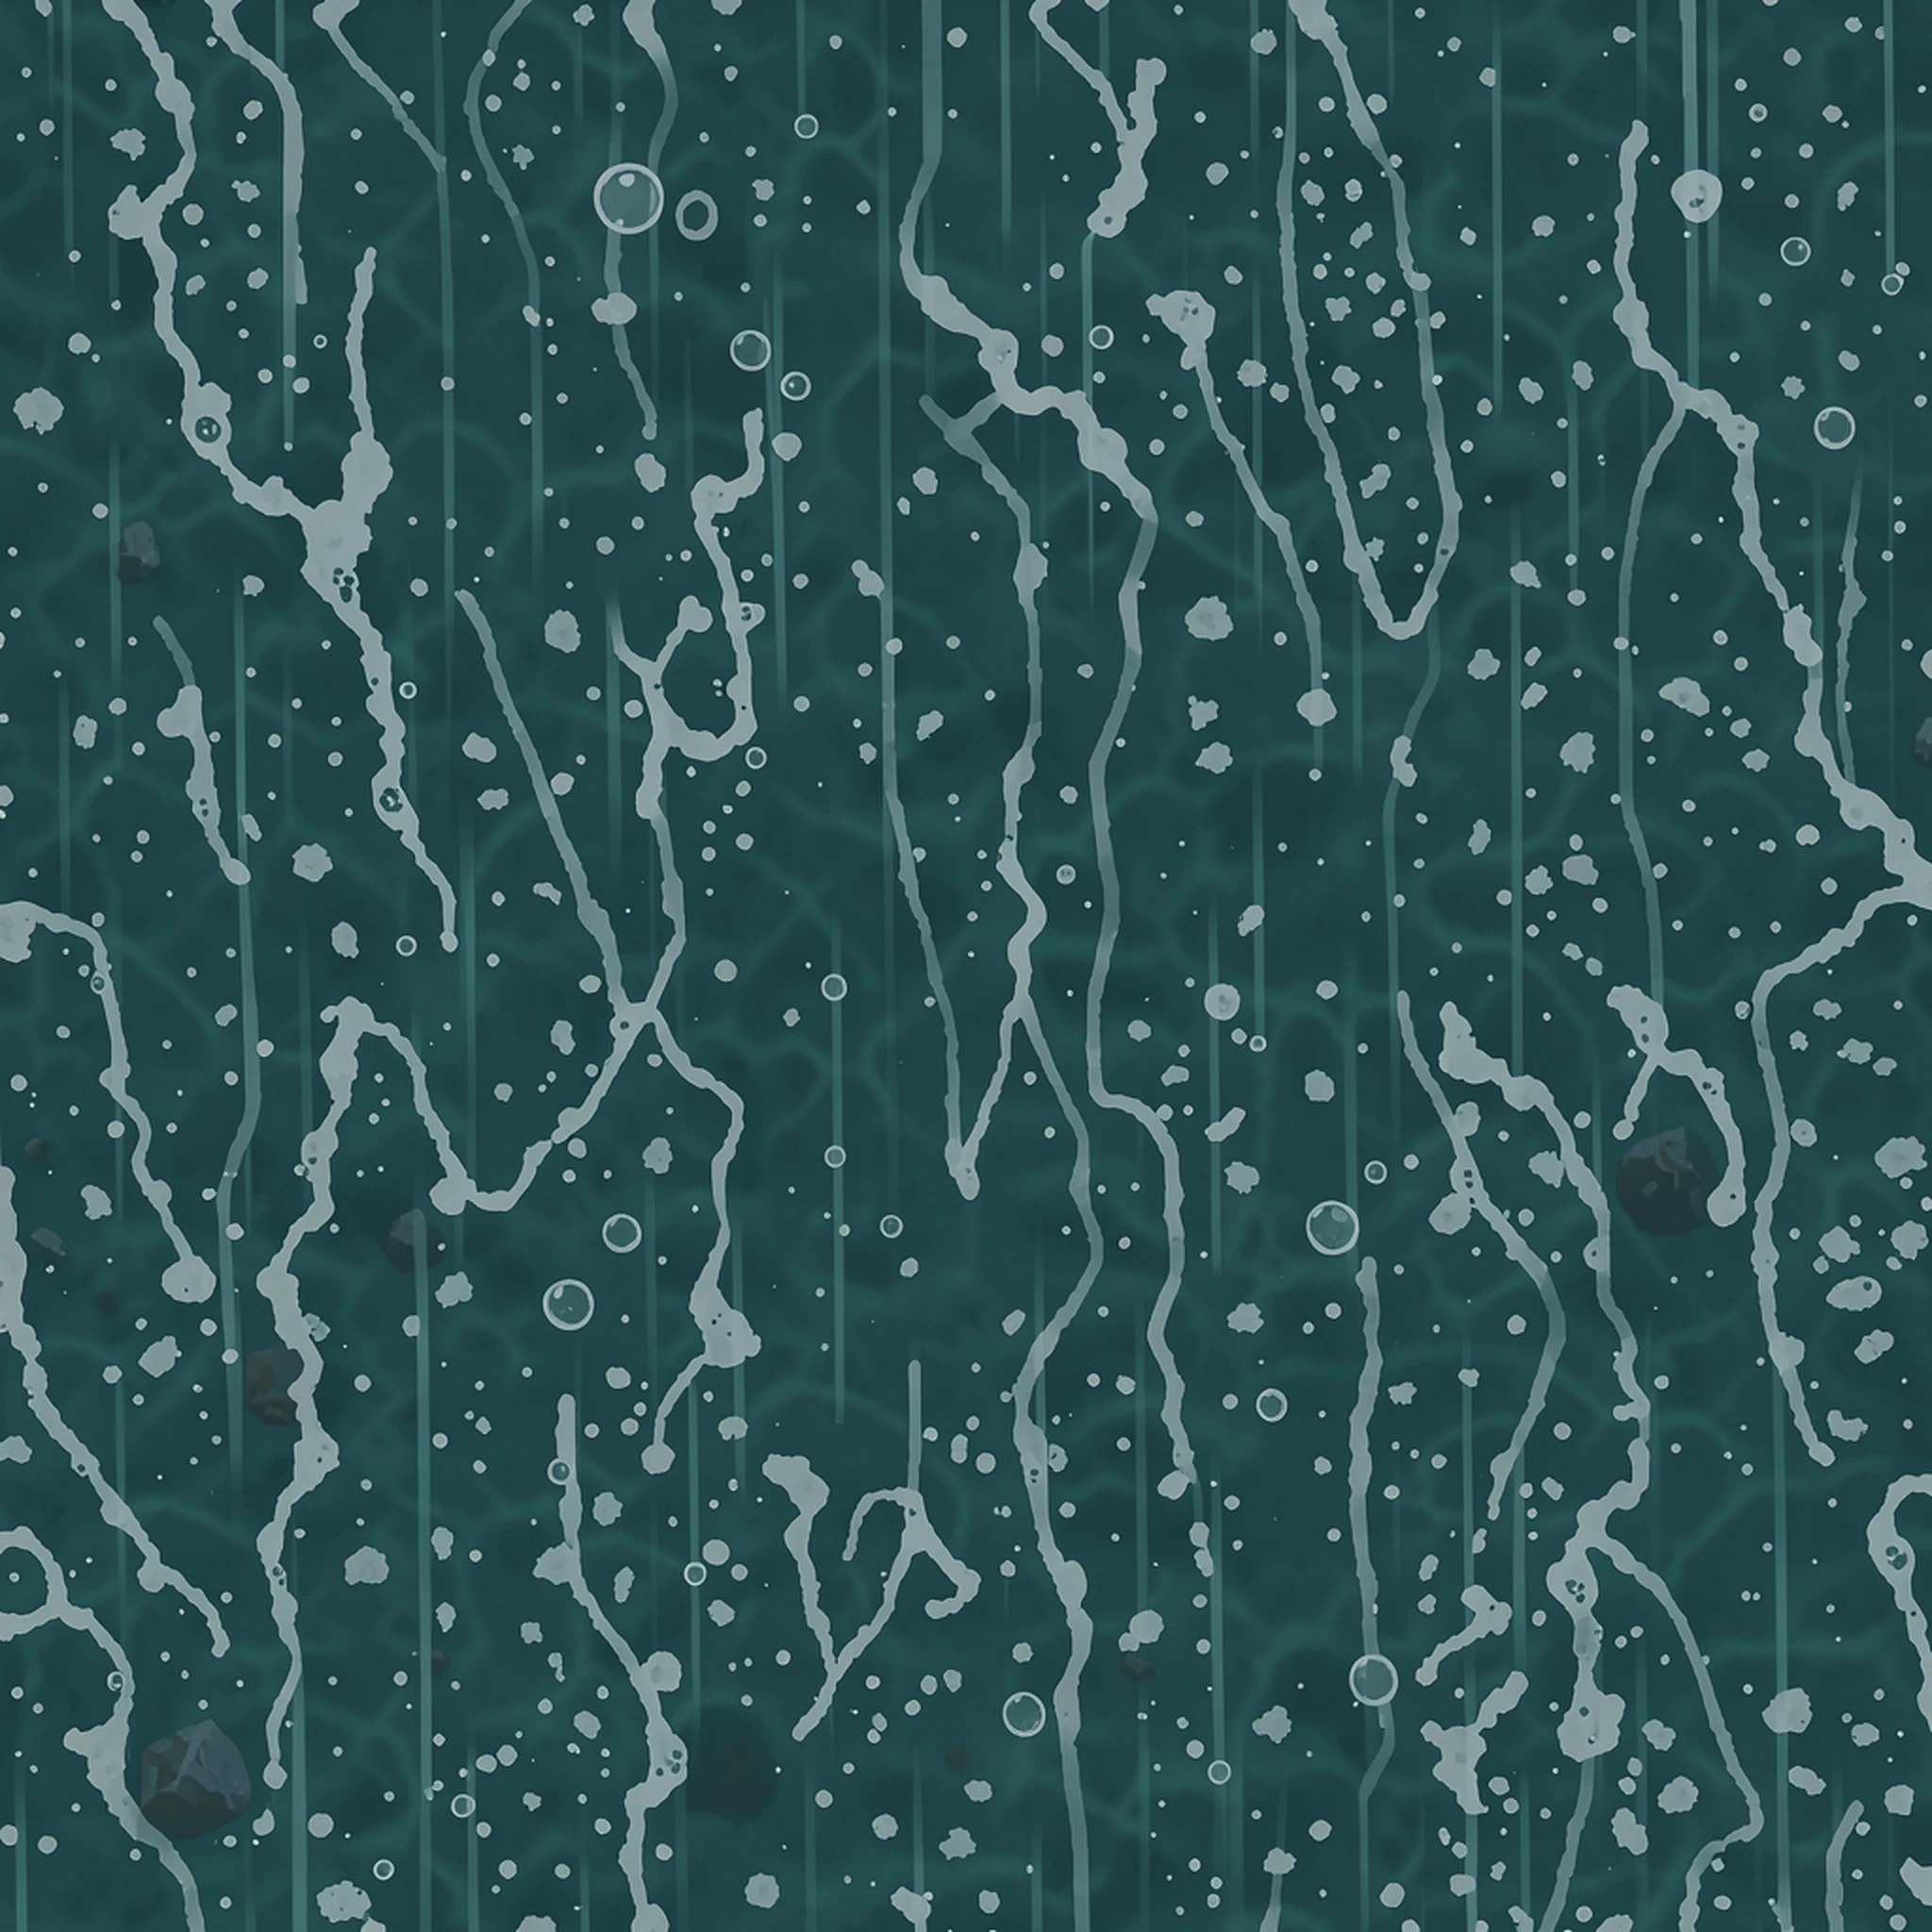
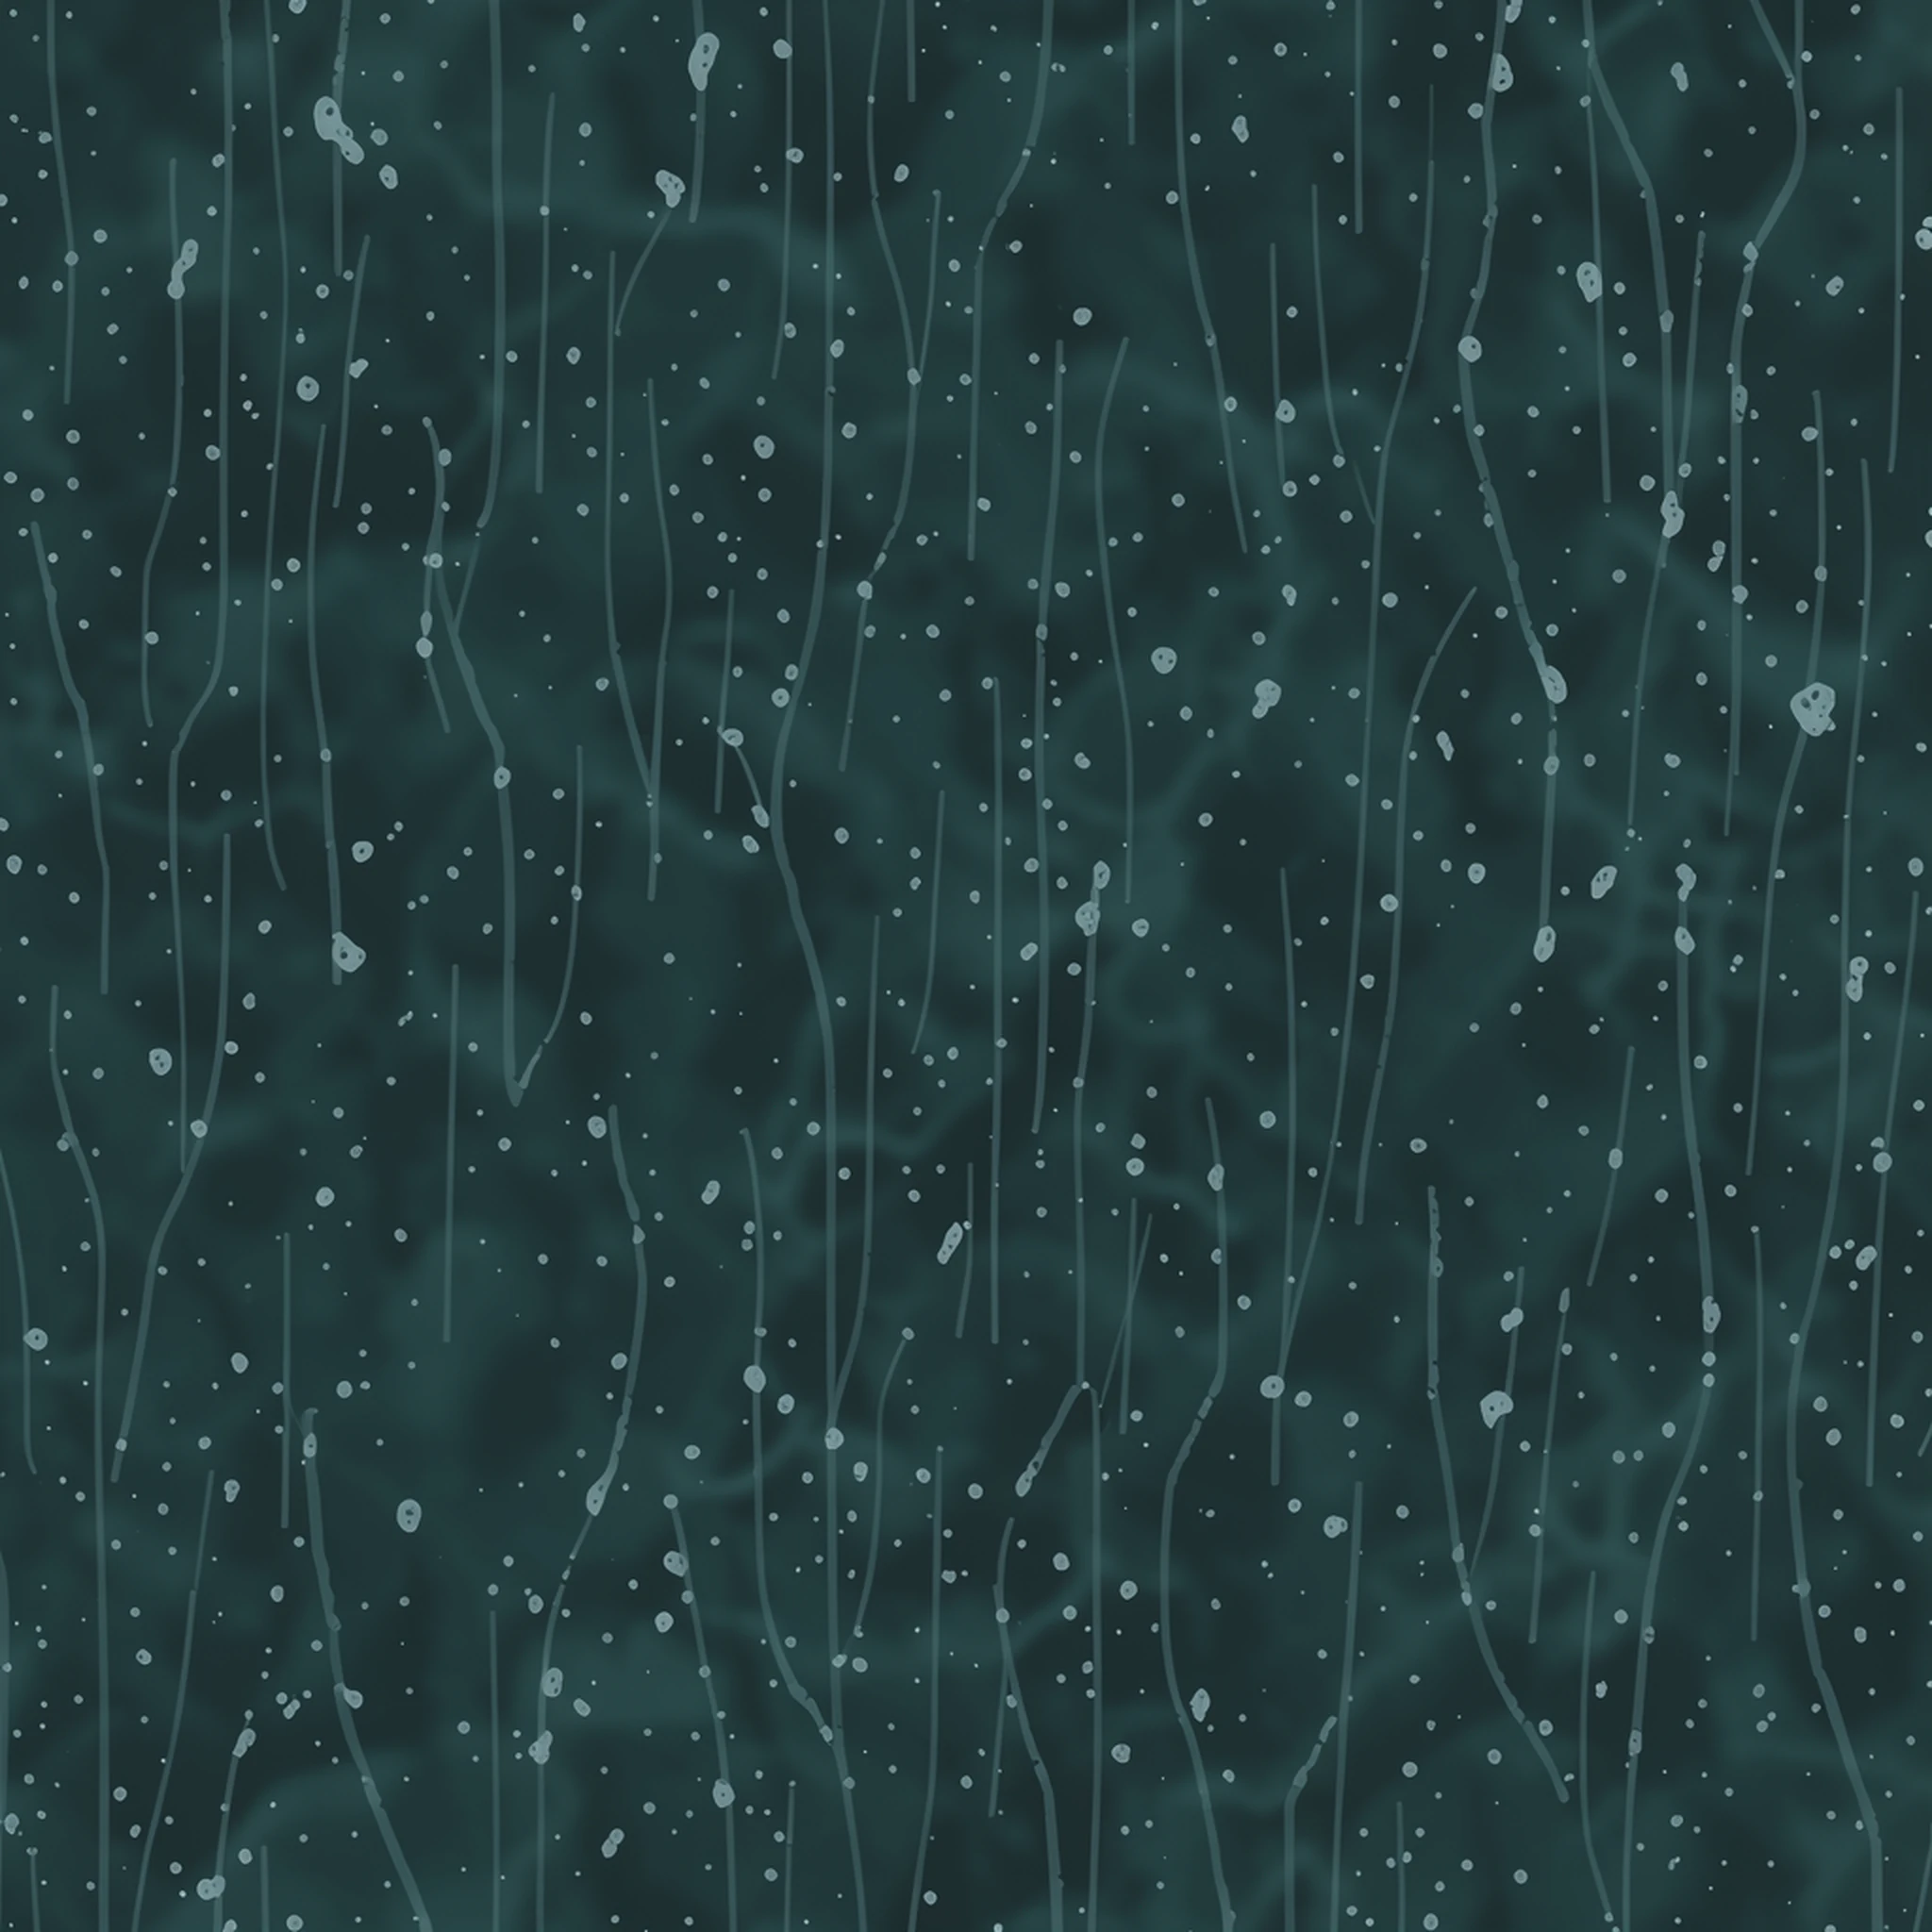
Hillshade relief on painted ground, cliff-face walls, calmer water
The painted terrain now shows its elevation: a hillshade pass samples the
height field on a one-tile lattice, bilinearly interpolates gradients per
pixel (sampling per-corner steps directly aliased into diamond-lattice
chains), and bakes lambert relief into the composite — away-facing slopes
darken, sun-facing slopes get a warm lift, light from the northwest to
match the sprite sun. Steep elevation edges (drop >= 2) now fill their
wall quads with an img2img-enriched slate cliff painting, window-hashed
per tile so faces don't repeat, with the depth gradient kept on top.

The stream-water painting is regenerated calmer (dark teal, subtle current
lines, sparse flecks) — the old one read as bath suds. Grid API floor is
strength 0.55; 0.5 is rejected.

Claude-Session: https://claude.ai/code/session_016WHJu5xCseYgrXDGJkfMzC

diff --git a/client/terrain-ground-patches.js b/client/terrain-ground-patches.js
@@ -4,6 +4,7 @@ import {
   visualBiomeWeightsAt,
 } from "./terrain-visual-biomes.js";
 import { roadPressuresAt, streamCenterAt } from "./terrain-biome.js";
+import { vertexHeight } from "./terrain-height.js";
 import { projectTerrainTile } from "./terrain-geometry.js";
 import { TERRAIN_MATERIALS, terrainTileAt } from "./terrain.js";
 import { PROJECTION } from "./projection.js";
@@ -185,6 +186,7 @@ function compositePatchForTile(tile, terrain, groundPatches) {
   }
 
   drawEcotoneBand(composite, maskContext, maskCanvas, superX, superY, terrain, groundPatches);
+  drawReliefShade(composite, maskContext, maskCanvas, superX, superY, terrain);
   drawRoadWear(composite, maskContext, maskCanvas, superX, superY, terrain, groundPatches);
   drawWaterBodies(composite, maskContext, maskCanvas, superX, superY, terrain, groundPatches);
 
@@ -293,6 +295,90 @@ function drawBombedPatchImage(ctx, image, superX, superY, seed) {
       ctx.drawImage(scratch.canvas, centerPxX - stampSizePx / 2, centerPxY - stampSizePx / 2);
     }
   }
+}
+
+// Hillshade: the painted ground is geometrically displaced by elevation but
+// was flat-lit, so hills read only at their step edges. This pass samples
+// the height field per pixel and bakes lambert-style relief into the
+// composite — slopes facing away from the light darken, sun-facing slopes
+// get a gentle warm lift. Light from the northwest, matching the sprite sun.
+const RELIEF_LIGHT_X = -0.62;
+const RELIEF_LIGHT_Y = -0.62;
+const RELIEF_STRENGTH = 0.9;
+
+function drawReliefShade(composite, maskContext, maskCanvas, superX, superY, terrain) {
+  const { cols, rows, safeRadiusTiles, profile } = terrain;
+  const size = MASK_SIZE;
+  // heights sampled on a one-tile lattice and gradients bilinearly
+  // interpolated per pixel: shading follows the broad hill forms instead of
+  // aliasing on per-tile corner steps (which drew diamond-lattice chains)
+  const latticeSize = CANVAS_TILES + 3;
+  const heights = new Float32Array(latticeSize * latticeSize);
+  for (let ly = 0; ly < latticeSize; ly += 1) {
+    const mapY = superY * PATCH_TILES + ly - MARGIN_TILES - 1;
+    for (let lx = 0; lx < latticeSize; lx += 1) {
+      const mapX = superX * PATCH_TILES + lx - MARGIN_TILES - 1;
+      heights[ly * latticeSize + lx] = vertexHeight(mapX, mapY, cols, rows, safeRadiusTiles, profile);
+    }
+  }
+  const h = (lx, ly) =>
+    heights[Math.min(latticeSize - 1, Math.max(0, ly)) * latticeSize + Math.min(latticeSize - 1, Math.max(0, lx))];
+  // per-lattice-point centered gradients (in height units per tile)
+  const gxs = new Float32Array(latticeSize * latticeSize);
+  const gys = new Float32Array(latticeSize * latticeSize);
+  for (let ly = 0; ly < latticeSize; ly += 1) {
+    for (let lx = 0; lx < latticeSize; lx += 1) {
+      gxs[ly * latticeSize + lx] = (h(lx + 1, ly) - h(lx - 1, ly)) / 2;
+      gys[ly * latticeSize + lx] = (h(lx, ly + 1) - h(lx, ly - 1)) / 2;
+    }
+  }
+
+  const dark = new Float32Array(size * size);
+  const light = new Float32Array(size * size);
+  let hasRelief = false;
+  const pxPerTile = size / CANVAS_TILES;
+  for (let y = 0; y < size; y += 1) {
+    const fy = (y + 0.5) / pxPerTile + 1; // +1 for the extra lattice ring
+    const ly = Math.floor(fy);
+    const ty = fy - ly;
+    for (let x = 0; x < size; x += 1) {
+      const fx = (x + 0.5) / pxPerTile + 1;
+      const lx = Math.floor(fx);
+      const tx = fx - lx;
+      const i00 = ly * latticeSize + lx;
+      const gx =
+        (gxs[i00] * (1 - tx) + gxs[i00 + 1] * tx) * (1 - ty) +
+        (gxs[i00 + latticeSize] * (1 - tx) + gxs[i00 + latticeSize + 1] * tx) * ty;
+      const gy =
+        (gys[i00] * (1 - tx) + gys[i00 + 1] * tx) * (1 - ty) +
+        (gys[i00 + latticeSize] * (1 - tx) + gys[i00 + latticeSize + 1] * tx) * ty;
+      // signed slope-into-light: negative = facing the light
+      const facing = (gx * RELIEF_LIGHT_X + gy * RELIEF_LIGHT_Y) * RELIEF_STRENGTH;
+      const i = y * size + x;
+      if (facing > 0.03) {
+        dark[i] = Math.min(0.38, facing * 0.4);
+        hasRelief = true;
+      } else if (facing < -0.03) {
+        light[i] = Math.min(0.18, -facing * 0.22);
+        hasRelief = true;
+      }
+    }
+  }
+  if (!hasRelief) return;
+
+  writeFieldMask(maskContext, dark);
+  composite.save();
+  composite.globalCompositeOperation = "multiply";
+  composite.fillStyle = "rgb(52, 58, 54)";
+  applyMaskedFill(composite, maskCanvas);
+  composite.restore();
+
+  writeFieldMask(maskContext, light);
+  composite.save();
+  composite.globalCompositeOperation = "soft-light";
+  composite.fillStyle = "rgb(255, 244, 214)";
+  applyMaskedFill(composite, maskCanvas);
+  composite.restore();
 }
 
 // The biome border wears an enriched ecotone painting: scrub, stones and

diff --git a/client/terrain-draw-surface.js b/client/terrain-draw-surface.js
@@ -7,7 +7,7 @@ export function terrainUnderpaintMaterial(tile) {
   return tile.material;
 }
 
-export function drawTerrainSideWalls(ctx, tile, corners, palette) {
+export function drawTerrainSideWalls(ctx, tile, corners, palette, cliffImage = null) {
   // water included: walls cover the screen-space gap below displaced edges
   // for every material — skipping them leaves black notches at pond steps
   if (!Array.isArray(tile.elevationEdges) || tile.elevationEdges.length === 0) return;
@@ -20,6 +20,38 @@ export function drawTerrainSideWalls(ctx, tile, corners, palette) {
     const dropPx = Math.max(2, edge.drop * PROJECTION.zPx);
     const lowerFrom = { x: from.x, y: from.y + dropPx };
     const lowerTo = { x: to.x, y: to.y + dropPx };
+
+    const wallPath = () => {
+      ctx.beginPath();
+      ctx.moveTo(from.x, from.y);
+      ctx.lineTo(to.x, to.y);
+      ctx.lineTo(lowerTo.x, lowerTo.y);
+      ctx.lineTo(lowerFrom.x, lowerFrom.y);
+      ctx.closePath();
+    };
+
+    if (cliffImage) {
+      // real rock face: the enriched cliff painting fills the wall quad;
+      // the source window hashes from tile coords so neighbouring walls
+      // don't repeat, and the depth gradient below keeps the shading
+      ctx.save();
+      wallPath();
+      ctx.clip();
+      const windowSize = 280;
+      const su = (((tile.x * 53 + tile.y * 97) % 7) / 7) * (cliffImage.width - windowSize);
+      const sv = (((tile.x * 31 + tile.y * 61) % 5) / 5) * (cliffImage.height - windowSize);
+      ctx.imageSmoothingEnabled = true;
+      const left = Math.min(from.x, to.x, lowerFrom.x, lowerTo.x);
+      const top = Math.min(from.y, to.y);
+      ctx.drawImage(
+        cliffImage,
+        su, sv, windowSize, windowSize * 0.6,
+        left - 2, top - 2,
+        Math.abs(to.x - from.x) + 4, dropPx + Math.abs(to.y - from.y) + 4,
+      );
+      ctx.restore();
+    }
+
     const gradient = ctx.createLinearGradient(
       (from.x + to.x) / 2,
       (from.y + to.y) / 2,
@@ -27,15 +59,9 @@ export function drawTerrainSideWalls(ctx, tile, corners, palette) {
       (lowerFrom.y + lowerTo.y) / 2,
     );
     const shadowAlpha = Math.min(0.22, 0.06 + edge.drop * 0.035);
-    gradient.addColorStop(0, tintWithAlpha(palette.dark, shadowAlpha * 0.72));
-    gradient.addColorStop(1, `rgba(8, 11, 10, ${shadowAlpha})`);
-
-    ctx.beginPath();
-    ctx.moveTo(from.x, from.y);
-    ctx.lineTo(to.x, to.y);
-    ctx.lineTo(lowerTo.x, lowerTo.y);
-    ctx.lineTo(lowerFrom.x, lowerFrom.y);
-    ctx.closePath();
+    gradient.addColorStop(0, tintWithAlpha(palette.dark, shadowAlpha * (cliffImage ? 0.45 : 0.72)));
+    gradient.addColorStop(1, `rgba(8, 11, 10, ${shadowAlpha * (cliffImage ? 1.5 : 1)})`);
+    wallPath();
     ctx.fillStyle = gradient;
     ctx.fill();
 

diff --git a/client/terrain-assets.js b/client/terrain-assets.js
@@ -2,7 +2,7 @@ import { PROJECTION } from "./projection.js";
 import { TERRAIN_MATERIALS } from "./terrain.js";
 import { VISUAL_BIOMES } from "./terrain-visual-biomes.js";
 
-const OVERLAY_PATCHES = ["trail", "ecotone", "stream-water"];
+const OVERLAY_PATCHES = ["trail", "ecotone", "stream-water", "cliff"];
 
 const MANIFEST_SCHEMA_VERSION = "duskfell-terrain-atlas-v1";
 const ALLOWED_TILE_KINDS = new Set(["flat-base", "slope-texture", "transition", "pair-transition", "decal"]);

diff --git a/client/terrain-draw.js b/client/terrain-draw.js
@@ -97,7 +97,7 @@ export function createTerrainDrawer({
     const palette = TERRAIN_MATERIALS[terrainUnderpaintMaterial(tile)];
     const groundPatchTile = tileUsesGroundPatch(tile, terrainAssets.groundPatches);
 
-    drawTerrainSideWalls(ctx, tile, corners, palette);
+    drawTerrainSideWalls(ctx, tile, corners, palette, terrainAssets.groundPatches?.get?.("cliff") ?? null);
 
     if (!groundPatchTile) {
       ctx.beginPath();

diff --git a/scripts/verify-terrain-authoring-recipes.js b/scripts/verify-terrain-authoring-recipes.js
@@ -63,7 +63,7 @@ for (const transform of ["mirror-x", "mirror-y", "free-rotation"]) {
 const manifest = JSON.parse(fs.readFileSync(path.join(root, "assets", "terrain", "manifest.json"), "utf8"));
 // contract: every visual biome has a painting; overlay patches ride alongside
 const REQUIRED_BIOME_PATCHES = ["meadow", "heath", "chalk", "frost", "fen", "moor", "ash", "blight"];
-const ALLOWED_OVERLAY_PATCHES = new Set(["trail", "ecotone", "stream-water"]);
+const ALLOWED_OVERLAY_PATCHES = new Set(["trail", "ecotone", "stream-water", "cliff"]);
 const patchBiomes = new Set((manifest.groundPatches ?? []).map((patch) => patch.biome));
 for (const biome of REQUIRED_BIOME_PATCHES) {
   if (!patchBiomes.has(biome)) errors.push(`terrain manifest is missing the ${biome} biome ground patch`);